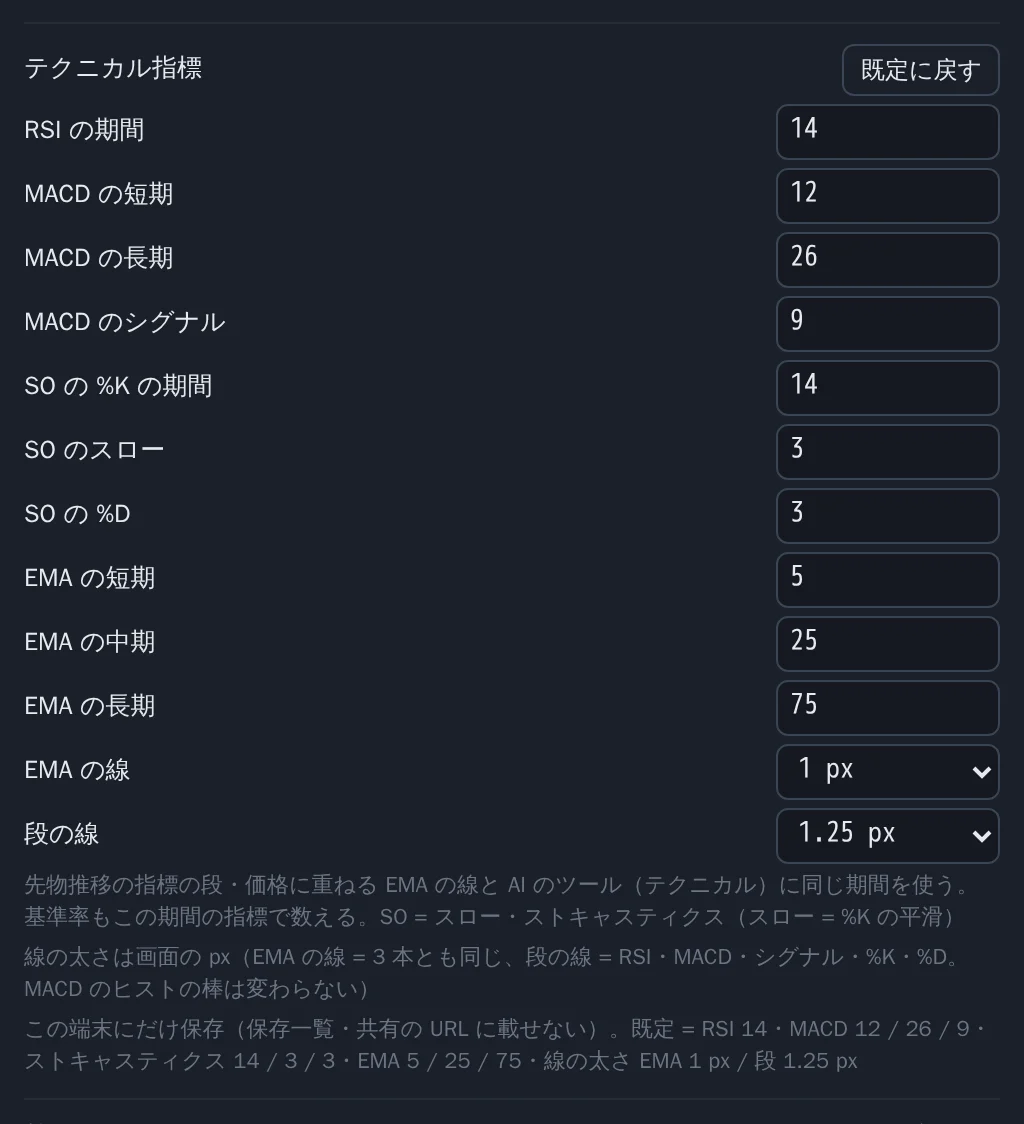
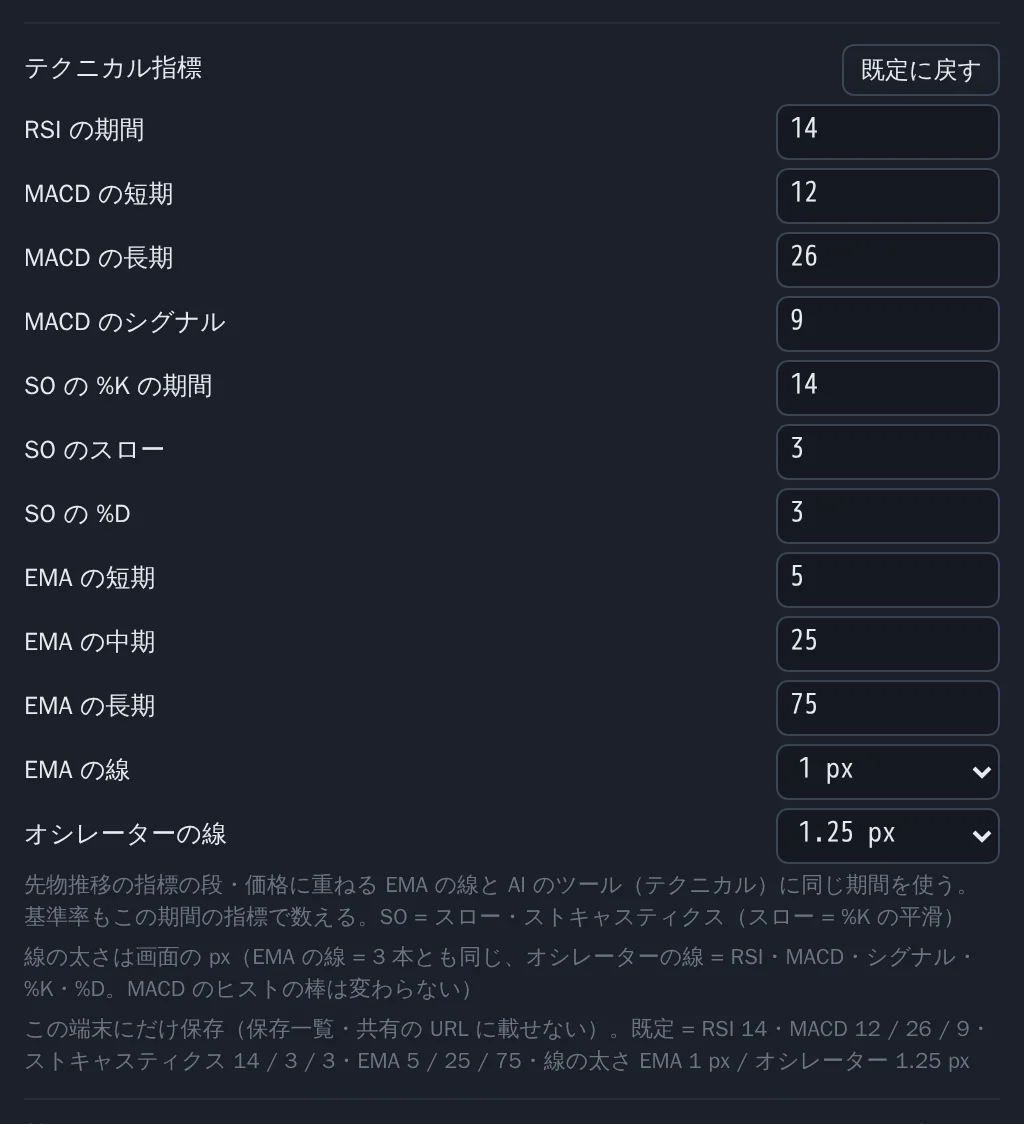
feat: 先物推移の段の境目を見やすく（線を濃く・中央につまみ）、「段の線」を「オシレーターの線」に、つかんで動かす間は十字線を出さない (#223)
- 境目の線 .ind-sep を --line → --line-2、.ind-split::before で中央のつまみ（横棒 2 本。hot は --ink-2、フォーカスは --accent）。高さ・下限・当たり判定は不変
- 設定の表記「段の線」→「オシレーターの線」（保存のキーは同じ）
- gesture.ts の grabStarted と useChartGestures の onGrab で、損益グラフのシナリオ点・足マーカー・面の点とスマイルの選択のスクラブをつかんでいる間はホバーの十字線を消す
- docs（ui-redesign §4.1・§4.8、design 13.4、user-guide、README）と README の画像、ui:check の検査を更新

diff --git a/tests/ui/gestureGrab.test.ts b/tests/ui/gestureGrab.test.ts
@@ -1,0 +1,118 @@
+import { describe, expect, it } from 'vitest';
+import {
+  type GestureCtx,
+  type GestureMode,
+  type GestureState,
+  gestureDown,
+  gestureLongPress,
+  gestureMove,
+  gestureUp,
+  grabStarted,
+  initialGesture,
+  LONG_PRESS_MS,
+} from '../../ui/chart/gesture';
+import type { Domain } from '../../ui/chart/scale';
+
+/**
+ * #223: つかんで動かす間は PC のホバーの十字線を出さない（docs/ui-redesign.md §4.1）。つかみ始めの判定 grabStarted と、
+ * 状態機械の遷移（ハンドルの即つかみ・長押し・足マーカーの長押し・面の点）がそれで true になること。パン・ピンチ・
+ * 十字線の交点のつかみは false
+ */
+const full: Domain = [30_000, 90_000];
+const range: Domain = [56, 1056];
+const V0: Domain = [50_000, 70_000];
+const BAND: [number, number] = [256, 270];
+const base: GestureCtx = { viewport: V0, range, full, minWidth: 250 };
+
+describe('grabStarted（#223）', () => {
+  const modes: GestureMode[] = [
+    'idle',
+    'pending',
+    'drag',
+    'pinch',
+    'scrub',
+    'marker',
+    'markerDrag',
+    'surface',
+    'cross',
+  ];
+  it('つかむ状態（scrub・markerDrag・surface）に入ったときだけ true', () => {
+    for (const prev of modes) {
+      for (const next of modes) {
+        const want = prev !== next && ['scrub', 'markerDrag', 'surface'].includes(next);
+        expect(grabStarted(prev, next), `${prev} → ${next}`).toBe(want);
+      }
+    }
+  });
+  it('パン（drag）・ピンチ・十字線の交点（cross）・押しただけ（pending・marker）は false', () => {
+    expect(grabStarted('pending', 'drag')).toBe(false);
+    expect(grabStarted('drag', 'pinch')).toBe(false);
+    expect(grabStarted('idle', 'cross')).toBe(false);
+    expect(grabStarted('idle', 'pending')).toBe(false);
+    expect(grabStarted('idle', 'marker')).toBe(false);
+  });
+});
+
+describe('状態機械の遷移とつかみ始め（#223）', () => {
+  const step = (s: GestureState, r: { state: GestureState }) => ({
+    grab: grabStarted(s.mode, r.state.mode),
+    state: r.state,
+  });
+
+  it('ハンドルの ±14px の押下はすぐつかむ（down で true）', () => {
+    const ctx: GestureCtx = { ...base, scrub: { linePx: 500, grabPx: 14 } };
+    const s0 = initialGesture();
+    const a = step(s0, gestureDown(s0, { id: 1, x: 510, y: 100, t: 0 }, ctx));
+    expect(a.state.mode).toBe('scrub');
+    expect(a.grab).toBe(true);
+    // 動かしている間は true にならない（同じモードのまま）
+    const b = step(a.state, gestureMove(a.state, { id: 1, x: 540, y: 100, t: 50 }, ctx));
+    expect(b.state.mode).toBe('scrub');
+    expect(b.grab).toBe(false);
+  });
+
+  it('離れた所は長押しでつかむ（down では false、長押しで true）', () => {
+    const ctx: GestureCtx = { ...base, scrub: { linePx: 500, grabPx: 14 } };
+    const s0 = initialGesture();
+    const a = step(s0, gestureDown(s0, { id: 1, x: 200, y: 100, t: 0 }, ctx));
+    expect(a.state.mode).toBe('pending');
+    expect(a.grab).toBe(false);
+    const b = step(a.state, gestureLongPress(a.state, LONG_PRESS_MS, ctx));
+    expect(b.state.mode).toBe('scrub');
+    expect(b.grab).toBe(true);
+  });
+
+  it('足マーカーの長押しで markerDrag に入ると true', () => {
+    const ctx: GestureCtx = {
+      ...base,
+      markers: { band: BAND, items: [{ id: 7, px: 300, drag: true }] },
+    };
+    const s0 = initialGesture();
+    const a = step(s0, gestureDown(s0, { id: 1, x: 302, y: 265, t: 0 }, ctx));
+    expect(a.state.mode).toBe('marker');
+    expect(a.grab).toBe(false);
+    const b = step(a.state, gestureLongPress(a.state, LONG_PRESS_MS, ctx));
+    expect(b.state.mode).toBe('markerDrag');
+    expect(b.grab).toBe(true);
+  });
+
+  it('面の点は押すとすぐつかむ（true）', () => {
+    const ctx: GestureCtx = { ...base, surface: { pointPx: { x: 400, y: 120 }, grabPx: 14 } };
+    const s0 = initialGesture();
+    const a = step(s0, gestureDown(s0, { id: 1, x: 600, y: 150, t: 0 }, ctx));
+    expect(a.state.mode).toBe('surface');
+    expect(a.grab).toBe(true);
+  });
+
+  it('6px 以上動かしたパン・離した後は false', () => {
+    const ctx: GestureCtx = { ...base, scrub: { linePx: 500, grabPx: 14 } };
+    const s0 = initialGesture();
+    const a = step(s0, gestureDown(s0, { id: 1, x: 200, y: 100, t: 0 }, ctx));
+    const b = step(a.state, gestureMove(a.state, { id: 1, x: 240, y: 100, t: 30 }, ctx));
+    expect(b.state.mode).toBe('drag');
+    expect(b.grab).toBe(false);
+    const c = step(b.state, gestureUp(b.state, { id: 1, x: 240, y: 100, t: 60 }, ctx));
+    expect(c.state.mode).toBe('idle');
+    expect(c.grab).toBe(false);
+  });
+});

diff --git a/ui/components/useChartGestures.ts b/ui/components/useChartGestures.ts
@@ -17,6 +17,7 @@
  *   cancel は未反映の位置を捨てて onSurfaceCancel。リセット（ダブルタップ・dblclick・R）の前に未反映の位置を流す
  * - 十字線（#201・#217）: cross を渡すと交点の ±grabPx の押下ですぐつかみ、onCross(x, y)（1 フレーム 1 回）に位置を渡す。
  *   動かさずに離した短い押下は onTap（#217。十字線を消す）
+ * - onGrab（#223）: つかむ状態（scrub・markerDrag・surface）に入ったとき 1 回（ホバーの十字線を消すのに使う）
  * - onDouble（#207。先物推移の指標の段）: 渡すとダブルタップ / ダブルクリックを初期表示に戻す代わりに onDouble(x, y)
  *   （離した位置。要素の座標）に渡す（段の最大化）。マウスは dblclick だけで拾い（OS のダブルクリックの間隔）、タッチ・ペンは
  *   状態機械のダブルタップで拾う（マウスで両方を拾うと 2 回効く = 戻ってしまう）。R キーは今のまま初期表示
@@ -37,6 +38,7 @@ import {
   gestureLongPress,
   gestureMove,
   gestureUp,
+  grabStarted,
   initialGesture,
   LONG_PRESS_MS,
   markerAt,
@@ -94,6 +96,11 @@ export interface ChartGestureOptions {
   onCross?: (x: number, y: number) => void;
   /** ダブルタップ / ダブルクリック（#207。渡すと初期表示に戻さずこれを呼ぶ。位置は要素の座標） */
   onDouble?: (x: number, y: number) => void;
+  /**
+   * つかみ始めた（#223。シナリオ点・スマイルの選択のスクラブ・足マーカー・面の点 = gesture.ts の grabStarted）。同期で 1 回。
+   * つかんで動かす間はホバーの十字線を出さない（docs/ui-redesign.md §4.1）
+   */
+  onGrab?: () => void;
 }
 
 /** グラフの操作の対象外（ツール行のボタン・入力欄・境目） */
@@ -196,7 +203,9 @@ export function useChartGestures(ref: RefObject<HTMLElement>, opts: ChartGesture
       return { id: e.pointerId, x: e.clientX - r.left, y: e.clientY - r.top, t: e.timeStamp };
     };
     const apply = (res: GestureResult, at?: PointerSample, mouse = false) => {
+      const prev = state.mode;
       state = res.state;
+      if (grabStarted(prev, state.mode)) optsRef.current.onGrab?.();
       if (res.surfaceCancel) {
         // 未反映の位置を捨ててから押す前に戻す
         pendingSurface = null;

diff --git a/ui/view/techLineWidth.ts b/ui/view/techLineWidth.ts
@@ -1,8 +1,8 @@
 /**
  * テクニカルの線の太さ（#214。docs/ui-redesign.md §4.8・§5）。設定の節「テクニカル指標」の 2 つの選択（px）を、
- * 先物推移の EMA の 3 本（3 本とも同じ太さ）と指標の段の線（RSI・MACD とシグナル・SO の %K / %D）の太さ（CSS px。
+ * 先物推移の EMA の 3 本（3 本とも同じ太さ）とオシレーターの線（指標の段の RSI・MACD とシグナル・SO の %K / %D。#223 で表記を改めた）の太さ（CSS px。
  * SVG の stroke-width 属性 + CSS の vector-effect: non-scaling-stroke = 拡大縮小に関係なく画面の px）に当てる。
- * 選べる値は TradingView と同じ 1 / 1.5 / 2 / 3 px に、段の線の既定 1.25 px（#200 からの今の太さ = 既定の見た目を
+ * 選べる値は TradingView と同じ 1 / 1.5 / 2 / 3 px に、オシレーターの線の既定 1.25 px（#200 からの今の太さ = 既定の見た目を
  * 変えない）を足した 5 つ。MACD のヒストの棒・ガイド・カーソルは対象外。純関数だけ。
  */
 
@@ -12,13 +12,13 @@ export const TECH_LINE_PX: readonly number[] = [1, 1.25, 1.5, 2, 3];
 export interface TechLineWidths {
   /** EMA の 3 本（px） */
   ema: number;
-  /** 指標の段の線（px） */
+  /** オシレーターの線（指標の段。px。キー pane は保存の後方互換のため #223 の改名後も同じ） */
   pane: number;
 }
 
 export type TechLineKey = keyof TechLineWidths;
 
-/** 既定（EMA 1 px = #214 の 3 本同じ太さ、段 1.25 px = #200 のまま） */
+/** 既定（EMA 1 px = #214 の 3 本同じ太さ、オシレーター 1.25 px = #200 のまま） */
 export const DEFAULT_TECH_LINE_WIDTHS: TechLineWidths = { ema: 1, pane: 1.25 };
 
 export const isTechLinePx = (v: unknown): v is number =>
@@ -49,7 +49,7 @@ export function techLinePxOf(text: string): number | null {
 /** 設定の 2 行（並び・見出し） */
 export const TECH_LINE_FIELDS: readonly { key: TechLineKey; label: string; aria: string }[] = [
   { key: 'ema', label: 'EMA の線', aria: 'EMA の線の太さ' },
-  { key: 'pane', label: '段の線', aria: '指標の段の線の太さ' },
+  { key: 'pane', label: 'オシレーターの線', aria: 'オシレーター（RSI・MACD・SO）の線の太さ' },
 ];
 
 /**

diff --git a/ui/view/settings.ts b/ui/view/settings.ts
@@ -6,7 +6,7 @@
  * #149 で同じ節に「買いの OP」の 2 択（減らさない / 相殺する）を足した。
  * #205 でテクニカル指標の節（RSI・MACD・ストキャスティクスの期間。端末の設定。先物推移の段と AI のツール technicals に
  * 同じ値を渡す）の欄の判定を足した。
- * #214 で同じ節に線の太さ（EMA の線・段の線の px。ui/view/techLineWidth.ts）を足した。
+ * #214 で同じ節に線の太さ（EMA の線・オシレーターの線の px。#223 で表記を改めた。ui/view/techLineWidth.ts）を足した。
  */
 
 import {
@@ -228,8 +228,8 @@ export const TECH_EMA_ORDER_ERROR = 'EMA は短期 < 中期 < 長期にする';
 /** テクニカルの節の注記 */
 export const TECH_SETTINGS_NOTES: readonly string[] = [
   '先物推移の指標の段・価格に重ねる EMA の線と AI のツール（テクニカル）に同じ期間を使う。基準率もこの期間の指標で数える。SO = スロー・ストキャスティクス（スロー = %K の平滑）',
-  '線の太さは画面の px（EMA の線 = 3 本とも同じ、段の線 = RSI・MACD・シグナル・%K・%D。MACD のヒストの棒は変わらない）',
-  'この端末にだけ保存（保存一覧・共有の URL に載せない）。既定 = RSI 14・MACD 12 / 26 / 9・ストキャスティクス 14 / 3 / 3・EMA 5 / 25 / 75・線の太さ EMA 1 px / 段 1.25 px',
+  '線の太さは画面の px（EMA の線 = 3 本とも同じ、オシレーターの線 = RSI・MACD・シグナル・%K・%D。MACD のヒストの棒は変わらない）',
+  'この端末にだけ保存（保存一覧・共有の URL に載せない）。既定 = RSI 14・MACD 12 / 26 / 9・ストキャスティクス 14 / 3 / 3・EMA 5 / 25 / 75・線の太さ EMA 1 px / オシレーター 1.25 px',
 ];
 
 /** [既定に戻す] で戻す値 */

diff --git a/ui/next/css/iv.css b/ui/next/css/iv.css
@@ -448,6 +448,10 @@
 /*
  * 境目（#207）: 高さ 0 の要素（role="separator"。フォーカスとキー・線の見た目だけ）。pointer-events: none で、押下の当たり
  * 判定は段の枠の座標（futSplitAt。マウス ±5px・タッチ ±10px。境目 0 は価格の描画域の側にも）。近くでは row-resize のカーソルと線
+ *
+ * #223: 境目の線は段の枠の上端の .ind-sep（--line-2）。中央に「つまみ」（::before = 横棒 2 本。線の行を挟んで上下 3px の行）を
+ * 常に薄く（--line-2）出し、近づいた・ドラッグ中（.hot）は濃く（--ink-2。線は ::after の 2px --ink-3）、フォーカスで --accent。
+ * 高さは 0 のまま（段の高さ・配置・当たり判定は変わらない）
  */
 .ind-split {
   position: relative;
@@ -456,6 +460,20 @@
   height: 0;
   outline: none;
   pointer-events: none;
+}
+
+.ind-split::before {
+  position: absolute;
+  top: -3px;
+  left: 50%;
+  z-index: 1;
+  box-sizing: content-box;
+  width: 20px;
+  height: 5px;
+  border-top: 1px solid var(--line-2);
+  border-bottom: 1px solid var(--line-2);
+  content: "";
+  transform: translateX(-50%);
 }
 
 .ind-split::after {
@@ -468,8 +486,16 @@
   background: transparent;
 }
 
+.ind-split.hot::before {
+  border-color: var(--ink-2);
+}
+
 .ind-split.hot::after {
-  background: var(--line-2);
+  background: var(--ink-3);
+}
+
+.ind-split:focus-visible::before {
+  border-color: var(--accent);
 }
 
 .ind-split:focus-visible::after {
@@ -533,8 +559,9 @@
   flex: 0 0 auto;
 }
 
+/* 段の枠の上端 = 境目の線（#223 で --line から濃く。ダーク / ライトの両方で見える） */
 .ind-pane .ind-sep {
-  stroke: var(--line);
+  stroke: var(--line-2);
 }
 
 .ind-pane .ind-guide {

diff --git a/tests/ui/techLineWidth.test.ts b/tests/ui/techLineWidth.test.ts
@@ -10,7 +10,7 @@ import {
   techLineWidthsOr,
 } from '../../ui/view/techLineWidth';
 
-/** #214: 設定の線の太さ（px）→ EMA の 3 本と指標の段の線の stroke-width（CSS px） */
+/** #214: 設定の線の太さ（px）→ EMA の 3 本とオシレーターの線（指標の段）の stroke-width（CSS px） */
 describe('テクニカルの線の太さ（px）', () => {
   it('選べる値は 1 / 1.5 / 2 / 3 px と段の既定 1.25 px。既定は EMA 1・段 1.25（今の見た目）', () => {
     expect(TECH_LINE_PX).toEqual([1, 1.25, 1.5, 2, 3]);
@@ -29,6 +29,17 @@ describe('テクニカルの線の太さ（px）', () => {
     expect(techLinePxOf('4')).toBeNull();
     expect(techLinePxOf('')).toBeNull();
     expect(TECH_LINE_FIELDS.map((f) => f.key)).toEqual(['ema', 'pane']);
+  });
+  it('#223: 設定の表記は「EMA の線 / オシレーターの線」（保存のキー pane は同じ）', () => {
+    expect(TECH_LINE_FIELDS.map((f) => [f.key, f.label])).toEqual([
+      ['ema', 'EMA の線'],
+      ['pane', 'オシレーターの線'],
+    ]);
+    const pane = TECH_LINE_FIELDS.find((f) => f.key === 'pane');
+    expect(pane?.aria).toBe('オシレーター（RSI・MACD・SO）の線の太さ');
+    expect(
+      TECH_LINE_FIELDS.some((f) => f.label.includes('段の線') || f.aria.includes('段の線')),
+    ).toBe(false);
   });
   it('欠けた・不正な項目は既定で埋める', () => {
     expect(techLineWidthsOr(undefined)).toEqual({ ema: 1, pane: 1.25 });

diff --git a/ui/next/stage/PnlPlot.tsx b/ui/next/stage/PnlPlot.tsx
@@ -75,6 +75,7 @@ function readSurfaceColors(): SurfaceColors | null {
  * タッチ・ペンのタップで置く（pinned。交点の ±14px をドラッグで動かす = gesture の cross、置いてある間のタップ（どこでも・
  * 読み取りの ×）・ダブルタップ（リセット）で消す = #217 の共通の規則）。面・ミニ・空では消す。
  * 面の十字線（#217）: マウスのホバーだけ（X 10 円・d 1 日の格子・損益 = surfaceCrosshair）。点をつかんでいる間・線へ切り替えたら消す。
+ * つかんで動かす間（#223。シナリオ点・足マーカー・面の点 = useChartGestures の onGrab）はホバーの十字線を消す（パンは値の座標のまま）。
  */
 export function PnlPlot(p: {
   chartRef: RefObject<HTMLDivElement>;
@@ -403,6 +404,13 @@ export function PnlPlot(p: {
     onMarkerCancel: () => setDragK(null),
     onLongPress: () => {
       navigator.vibrate?.(8);
+    },
+    // つかんで動かす間（シナリオ点・足マーカー・面の点。#223）はホバーの十字線を出さない: 未反映のホバーを捨てて消す。
+    // タッチで置いた十字線（pinned）は残す（§4.1: 長押しでは消えない）。離した後はマウスを動かすとまた出る
+    onGrab: () => {
+      hoverAt.current = null;
+      setCursor((c) => (c && !c.pinned ? null : c));
+      setSurfCursor(null);
     },
   });
 

diff --git a/ui/chart/gesture.ts b/ui/chart/gesture.ts
@@ -167,6 +167,18 @@ export function initialGesture(): GestureState {
   };
 }
 
+/** つかんで動かす状態（シナリオ点・スマイルの選択のスクラブ = scrub、足マーカー = markerDrag、面の点 = surface。#223） */
+const GRAB_MODES: ReadonlySet<GestureMode> = new Set(['scrub', 'markerDrag', 'surface']);
+
+/**
+ * つかみ始めたか（#223）: モードが prev からつかむ状態（scrub・markerDrag・surface）に変わったとき true。
+ * この間は PC のホバーの十字線を出さない（docs/ui-redesign.md §4.1「十字線の共通の規則」）。パン（drag）・ピンチ・
+ * 十字線の交点のつかみ（cross）は対象外
+ */
+export function grabStarted(prev: GestureMode, next: GestureMode): boolean {
+  return prev !== next && GRAB_MODES.has(next);
+}
+
 /**
  * 押した位置のマーカー（band の縦の範囲の中で |x − px| ≤ MARKER_HIT_PX の最も近いもの。等距離は配列の先）。
  * ctx.markers が無い・当たらなければ null。

diff --git a/ui/next/market/FutHistory.tsx b/ui/next/market/FutHistory.tsx
@@ -77,7 +77,7 @@ export interface FutHistoryProps {
   paneH: IndPaneHeights | undefined;
   /** 段の高さを書く（null = 既定に戻す） */
   onPaneH: (h: IndPaneHeights | null) => void;
-  /** テクニカルの線の太さ（#214。px。端末の設定。EMA の 3 本と段の線） */
+  /** テクニカルの線の太さ（#214。px。端末の設定。EMA の 3 本とオシレーターの線） */
   lineWidths: TechLineWidths;
 }
 
@@ -204,7 +204,7 @@ function FutHistoryView(p: FutHistoryProps) {
         : null,
     [showEma, bars, emaShort, emaMid, emaLong],
   );
-  // 線の太さ（#214）: EMA の 3 本は同じ太さ、段の線は段の太さ
+  // 線の太さ（#214）: EMA の 3 本は同じ太さ、オシレーターの線（段）はその太さ
   const widths = p.lineWidths;
   const emaW = widths.ema;
   const overlays = useMemo(() => (ema ? futEmaOverlays(ema, emaW) : undefined), [ema, emaW]);

diff --git a/ui/view/ivHistory.ts b/ui/view/ivHistory.ts
@@ -722,7 +722,7 @@ export function ivChartModel(p: IvChartInput): IvChartModel {
   }
 
   // 重ねる線（#206）: 見えている足（端は 1 本外まで）を結ぶ。値の無い足（ウォームアップ中）で切る。1 画素に 2 本以上の
-  // 足が入るとき（縮小）は 1 画素の列に 1 点（その列の最後の足）= 指標の段の線と同じ規則（1 万本でも 1 フレームの予算に収める）
+  // 足が入るとき（縮小）は 1 画素の列に 1 点（その列の最後の足）= 指標の段のオシレーターの線と同じ規則（1 万本でも 1 フレームの予算に収める）
   const thin = (range[1] - range[0]) / Math.max(viewport[1] - viewport[0], 1e-9) < 1;
   const has = (v: number | null | undefined): v is number =>
     v !== null && v !== undefined && Number.isFinite(v);

diff --git a/ui/next/market/SmilePlot.tsx b/ui/next/market/SmilePlot.tsx
@@ -139,6 +139,11 @@ function SmilePlotView(p: SmilePlotProps) {
     // 長押し（今のまま）: 選択を最寄りの点へ切り替える
     scrub: { linePx: null },
     onScrub: (x) => select(scrubStrike(model, x, range)),
+    // 長押しの選択のスクラブの間（#223）はマウスのホバーの十字線を出さない（未反映のホバーも捨てる。タッチの十字線は残す）
+    onGrab: () => {
+      hoverAt.current = null;
+      setCursor((c) => (c && !c.touch ? null : c));
+    },
     onScrubKey: (key) => {
       const steps = SCRUB_KEY_STEPS[key];
       if (steps === undefined) return false;

diff --git a/tests/ui/settings.test.ts b/tests/ui/settings.test.ts
@@ -272,7 +272,7 @@ describe('テクニカル指標の欄（#205）', () => {
     ]);
     expect(TECH_SETTINGS_NOTES.join('')).toContain('EMA 5 / 25 / 75');
     // #214: 線の太さの既定と効く範囲（ヒストは変わらない）を注記に書く
-    expect(TECH_SETTINGS_NOTES.join('')).toContain('線の太さ EMA 1 px / 段 1.25 px');
+    expect(TECH_SETTINGS_NOTES.join('')).toContain('線の太さ EMA 1 px / オシレーター 1.25 px');
     expect(TECH_SETTINGS_NOTES.join('')).toContain('ヒストの棒は変わらない');
   });
   it('範囲内の整数は通る（前後の空白・両端を含む）', () => {
